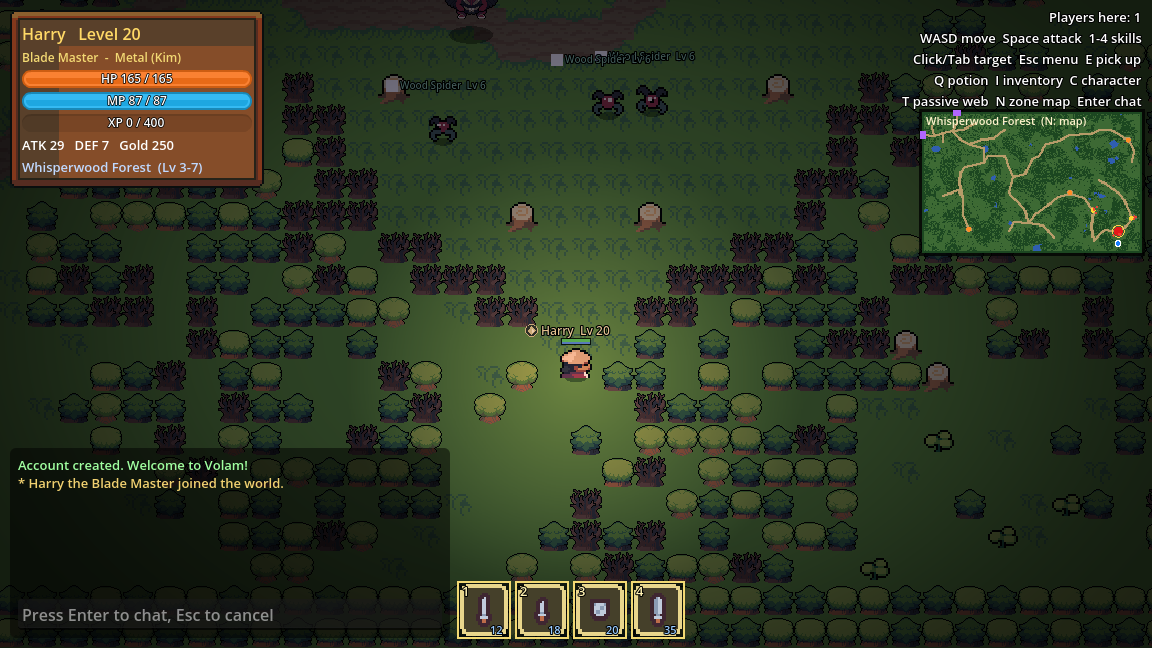
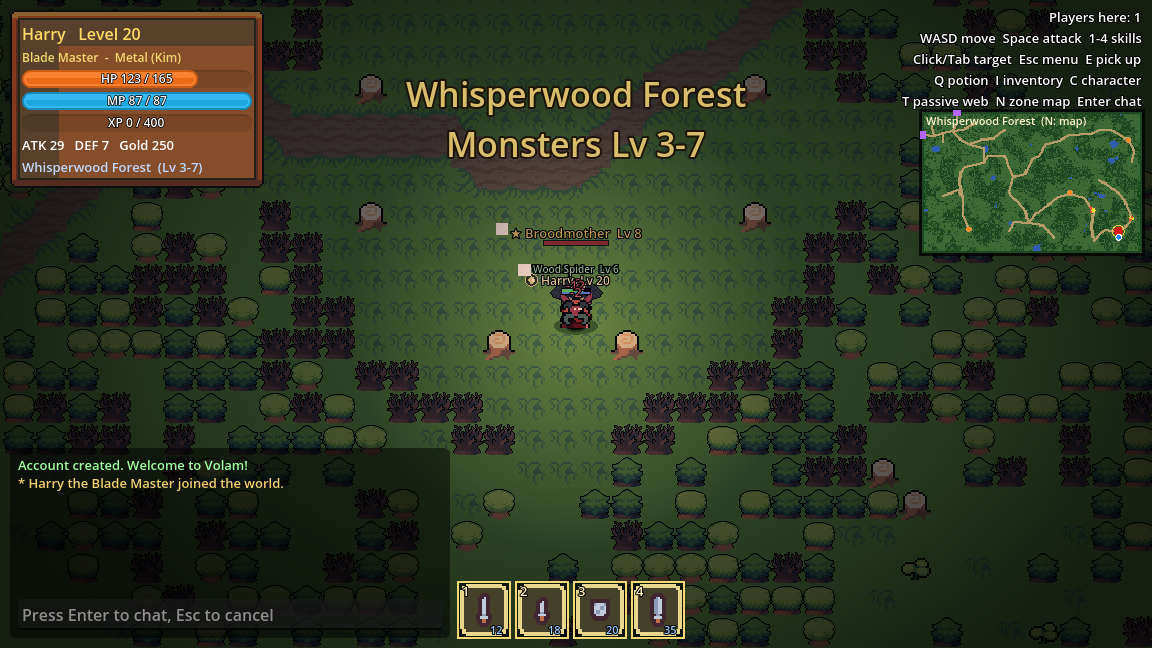
Art test: notes (docs/art_test/README.md), boss view re-shot closer to the lair, smoke runner fix

diff --git a/docs/art_test/README.md b/docs/art_test/README.md
@@ -1,0 +1,48 @@
+# Art style test (branch `art-test`, never merged)
+
+Zone reskinned: **Whisperwood Forest** (it has the boss lair; Sunny Meadow has no boss).
+Run with `--art-test` on a client (or `VOLAM_ART_TEST=1`); `--art-test-nomood` keeps the reskin but drops the dark pass.
+Without the flag the game is unchanged. The server never needs the flag (tile layout and collision are identical).
+
+* Assets: `python3 tools/build_art_test.py /workspace/art_dl` -> `assets/art_test/` (see CREDITS.md).
+* Captures: `xvfb-run -a -s "-screen 0 1280x720x24" tools/art_test_screenshots.sh [views|combat|all]`
+  (`VIEWS="boss"` limits the views; `SEQ`, `INTERVAL`, `LV` tune the combat run).
+* Smoke tests: `tools/art_test_smoke.sh` (phases 1, 3 and 11 of run_local_test.sh plus their checks, then phase 11 with `--art-test` clients).
+
+## What's reskinned (only with --art-test)
+* Players: Ninja Adventure characters, 2 per element (Metal NinjaGray/Samurai, Wood NinjaGreen/NinjaLeaf,
+  Water NinjaWater/NinjaBlue, Fire NinjaRed/NinjaFire, Earth NinjaYellow/Monk). 4-direction idle, 4-frame walk,
+  attack pose on swings, `Item` pose as a temporary cast (shown to the caster's own client only).
+* Monsters: Dire Rat -> Mouse, Cave Bat -> BlueBat, Wood Spider -> SpiderRed (4-dir walk). Boss Broodmother -> TenguRed
+  (82 px idle / walk / attack frames; attack row plays while it telegraphs).
+* Whisperwood tiles (F_* cells of the same atlas): grass x2, clover, 4 tree types, stump, water, 3x3 dirt path; forest camp ground.
+* UI: HP / mana / XP bars from Kenney UI Pack RPG Expansion, stats panel from Ninja Adventure's wood theme (darkened).
+* VFX: one PVFX Foundry effect per element over the existing skill effects (Metal electric-impact, Wood leaf-gust,
+  Water frost-nova, Fire warm-explosion, Earth earth-rupture).
+* Mood pass (all zones): CanvasModulate (0.50, 0.50, 0.62), full-screen colour grade shader (35% desaturate, contrast,
+  cool shadows / warm highlights, vignette) under the HUD, PointLight2D on your own hero and on every monster camp fire.
+
+## Proof
+* `before_*.png` / `after_*.png`: town, wilds (forest entrance 12,22), monster group (forest camp), boss lair. Same cells, same 1152x648 window.
+* `combat/combat_01..10.png`: a fight at a forest camp, one bot per element, frames 0.25 s apart
+  (01 water nova + wood gust, 04 fire explosion, 07 wood, 08 earth rupture, 09-10 metal electric impact).
+* `combat.mp4`: 60 frames at 5 fps (12 s) of the same fight.
+
+## 16x16 issues found
+1. **Scale**: the game grid is 32 px; every 16 px Ninja Adventure tile and actor is drawn 2x nearest. That works, but
+   the 2x2-tile Ninja Adventure trees are kept at 1x to fit one 32 px tile, so trees have **half the pixel size** of
+   everything else (mixed texel density). The proper fix is 2x2-tile trees (map generator change) or a 16 px grid with camera zoom 2.
+2. **Collision**: unchanged, because the atlas layout is kept. Trees are solid squares, but the NA trees are round, so you
+   bump into transparent corners. Player and monster circles (9-10 px) still suit 32 px actors.
+3. **Boss**: TenguRed is 82 px frames at 1x, about 2.5 tiles; the old boss was 32 px x2.2 scale. The name label had to move up
+   (y -100) to clear it. Other NA bosses mix 50 and 82 px frames, so each one needs its own offset.
+4. **Outlines**: NA sprites have a dark 1 px outline (2 px after scaling). Kenney town tiles and props (barrels on an opaque
+   dark square, the blacksmith, NPCs, the map device) have none, so **mixing the packs is obvious** in town and at the camps.
+   The town and Kenney props are not reskinned in this test.
+5. **Readability**: name labels and HP bars stay readable on the darker ground thanks to the black outline. In packs they
+   overlap badly (they did before too). Player light plus vignette leave screen edges dark, which hurts minimap-free scouting.
+6. **Animation frames**: NA actors are 16x16 with 4 walk frames and a single attack, item or dead frame per direction.
+   This pack version (29 Mar 2026) **does** include a 4-direction `Idle.png`, so the "walk frame 1 as idle" fallback is only
+   used if Idle.png is missing. Monsters only have walk frames: no attack, hit or death frames. Effects are 96 px (PVFX)
+   versus 16 px actors, so they are scaled by skill radius and look higher-resolution and smoother than the sprites.
+7. **Colour**: NA's saturated pastel palette needs the grade pass to read as wuxia. Without it, it is as cute as Kenney.
